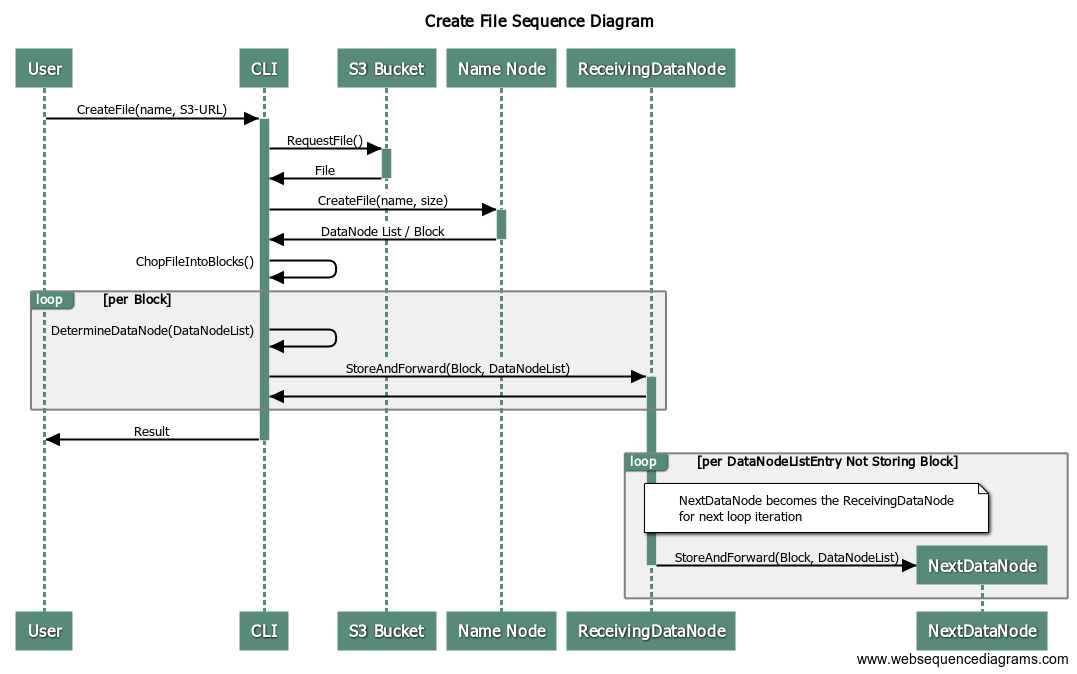
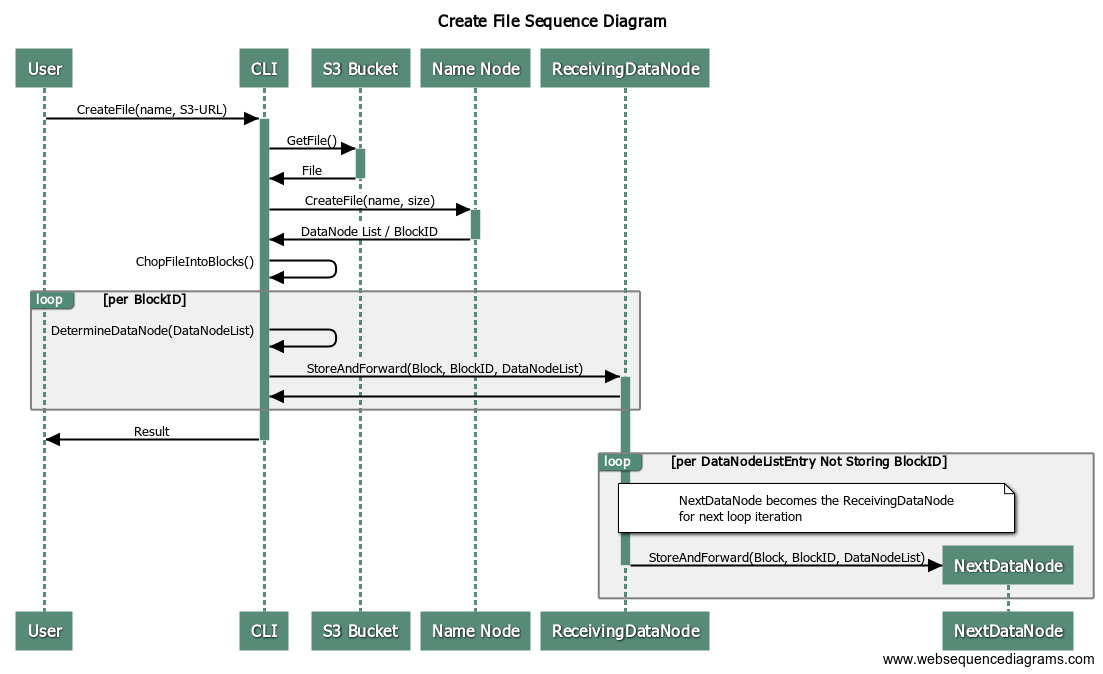
updated create file design doc; created get file design doc

diff --git a/Design Docs/README.md b/Design Docs/README.md
@@ -13,20 +13,44 @@ User->+CLI: CreateFile(name, S3-URL)
 CLI->+S3 Bucket: GetFile()
 S3 Bucket->-CLI: File
 CLI->+Name Node: CreateFile(name, size)
-Name Node->-CLI: DataNode List / Block
+Name Node->-CLI: DataNode List / BlockID
 CLI->CLI: ChopFileIntoBlocks()
-loop per Block
+
+loop per BlockID
 CLI->CLI: DetermineDataNode(DataNodeList)
-CLI->+ReceivingDataNode: StoreAndForward(Block, DataNodeList)
+CLI->+ReceivingDataNode: StoreAndForward(Block, BlockID, DataNodeList)
 ReceivingDataNode->CLI:
 end
+
 CLI->-User: Result
 
-loop per DataNodeListEntry Not Storing Block
+loop per DataNodeListEntry Not Storing BlockID
 note over ReceivingDataNode,NextDataNode:
     NextDataNode becomes the ReceivingDataNode
     for next loop iteration
 end note
-ReceivingDataNode->*-NextDataNode: StoreAndForward(Block, DataNodeList)
+ReceivingDataNode->*-NextDataNode: StoreAndForward(Block, BlockID, DataNodeList)
 end
+```
+
+## Get File Sequence Diagram
+
+![Get File Sequence Diagram](Get_File_Sequence_Diagram.png)
+
+```
+title Get File Sequence Diagram
+
+User->+CLI: GetFile(name, saveLocation)
+CLI->+Name Node: GetFile(name, size)
+Name Node->-CLI: DataNode List / BlockID
+
+loop per BlockID
+CLI->CLI: DetermineDataNode(DataNodeList)
+CLI->+DeterminedDataNode: GetBlock(BlockID)
+DeterminedDataNode->CLI: Block
+end
+
+CLI->CLI: ConcatenateBlocks(blocks)
+CLI->CLI: SaveFile(data, saveLocation)
+CLI->-User: Result
 ```

diff --git a/README.md b/README.md
@@ -1,0 +1,3 @@
+## Notes
+
+[Google Drive Documents](https://drive.google.com/drive/folders/1fM6cTPVd33H-8DGVdshsqFIiVyhb7iQa)
